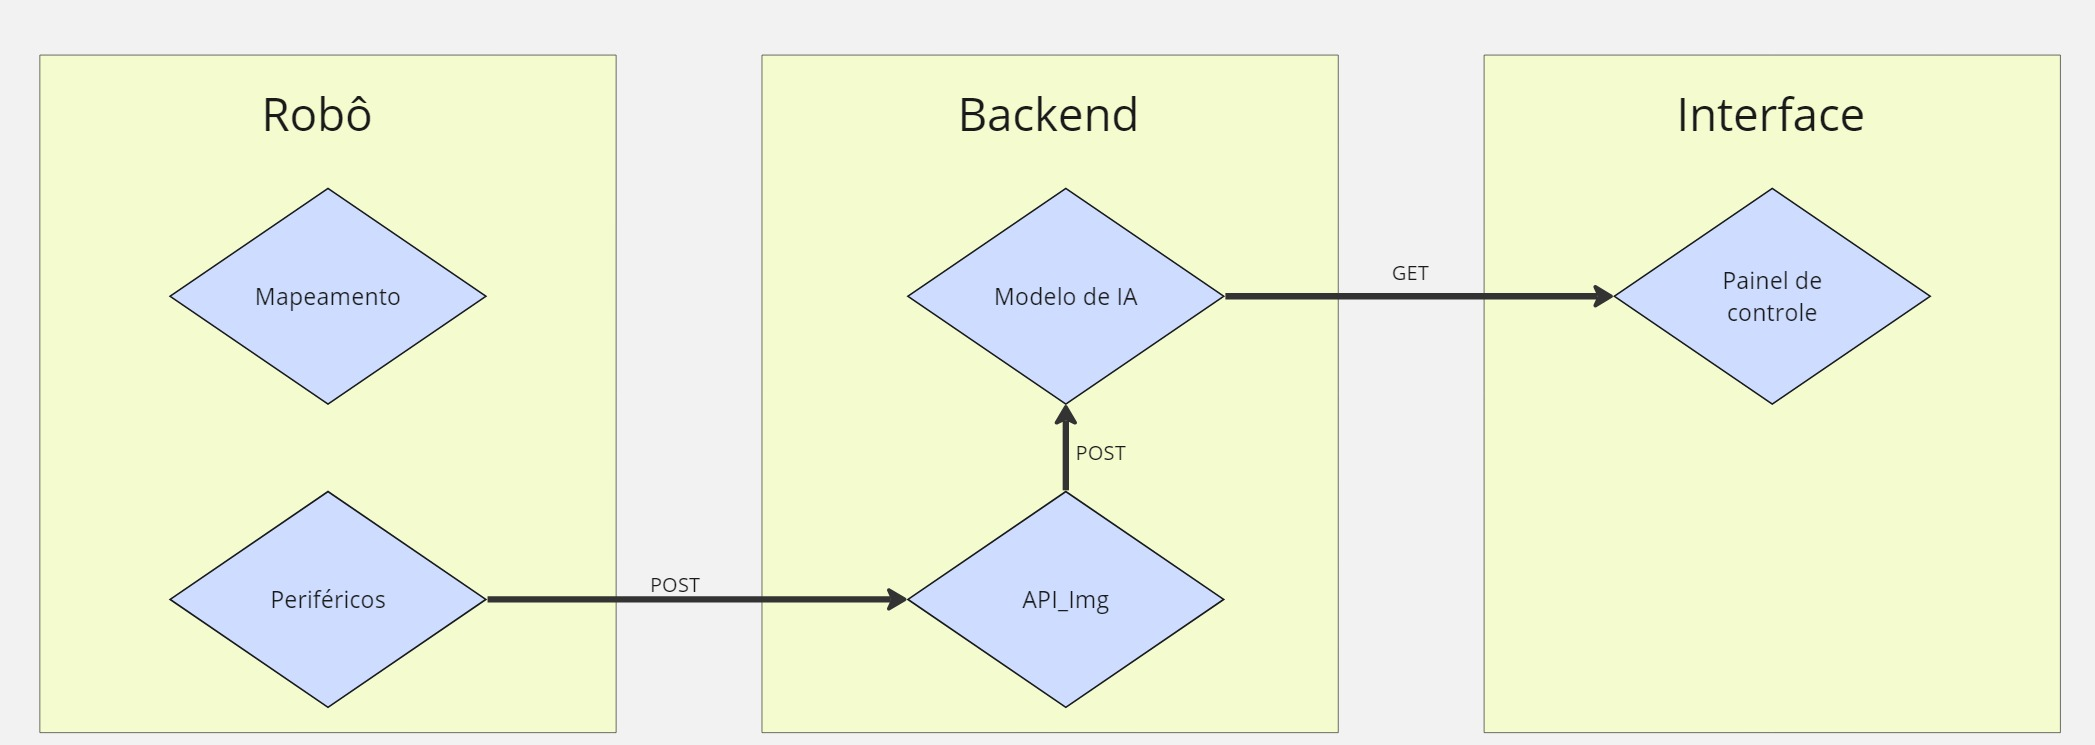
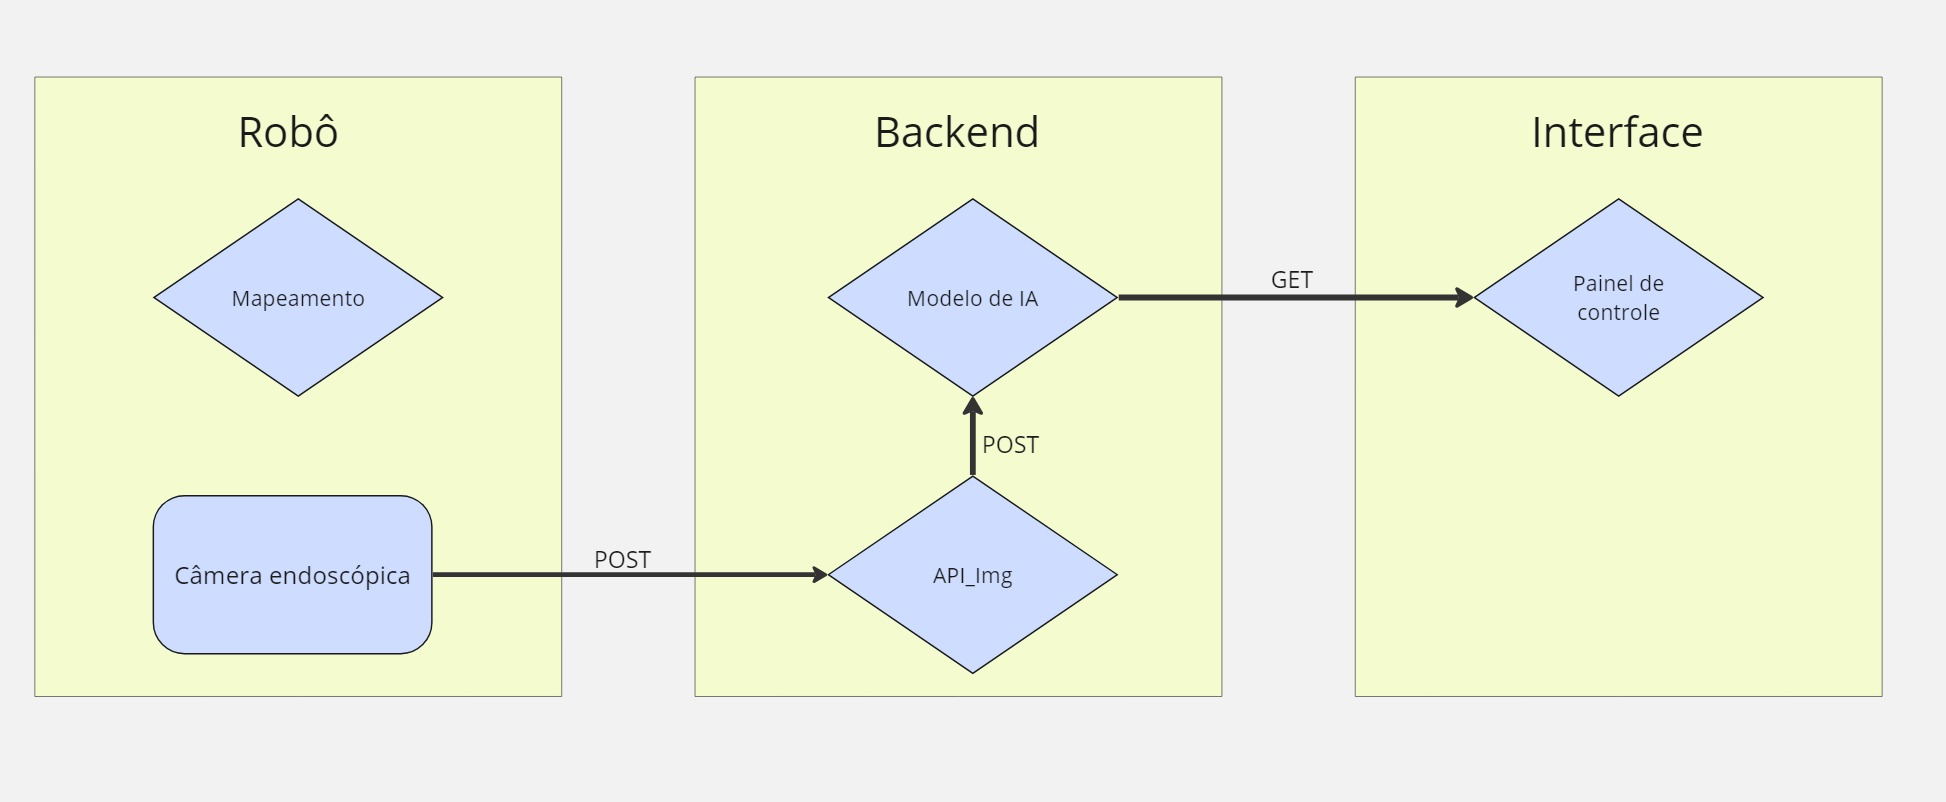
DOCS : Ajustes finos na arquitetura

diff --git a/docs/docs/sprints/Sprint 1/arquitetura/arquitetura.md b/docs/docs/sprints/Sprint 1/arquitetura/arquitetura.md
@@ -17,6 +17,9 @@ Pensando em uma arquitetura modularizada capaz de atender às demandas especific
 
 ![Arquitetura](../../../../static/img/sprint1/arq1.jpg)
 
+
+**Legenda**: Um aspecto importante ao observar a arquitetura é que cada quadrado representa um bloco individual do sistema. Além disso, as figuras em formato de losango representam partes do software, enquanto os retângulos representam peças de hardware. 
+
 Nos parágrafos a seguir, serão destacados a função de cada um desses módulos e a integração dos mesmos.
 
 #### Mapeamento 
